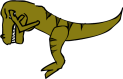
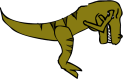
Fixed hit animation

diff --git a/game/sprites/PlayerSprite.cs b/game/sprites/PlayerSprite.cs
@@ -25,9 +25,17 @@ namespace AbrahmanAdventure.sprites
 
         private Surface standingRightSurface;
 
+        private Surface hitLeftSurface;
+
+        private Surface hitRightSurface;
+
         private Surface crouchedRightSurface;
 
         private Surface crouchedLeftSurface;
+        
+        private Surface crouchedHitRightSurface;
+
+        private Surface crouchedHitLeftSurface;
 
         private Surface attackFrame1RightSurface;
 
@@ -120,6 +128,38 @@ namespace AbrahmanAdventure.sprites
                 crouchedLeftSurface = GetCrouchedRightSurface().CreateFlippedHorizontalSurface();
 
             return crouchedLeftSurface;
+        }
+
+        private Surface GetCrouchedHitRightSurface()
+        {
+            if (crouchedHitRightSurface == null)
+                crouchedHitRightSurface = BuildSpriteSurface("./assets/rendered/abrahman/crouchedHit.png");
+
+            return crouchedHitRightSurface;
+        }
+
+        private Surface GetCrouchedHitLeftSurface()
+        {
+            if (crouchedHitLeftSurface == null)
+                crouchedHitLeftSurface = GetCrouchedHitRightSurface().CreateFlippedHorizontalSurface();
+
+            return crouchedHitLeftSurface;
+        }
+
+        private Surface GetHitRightSurface()
+        {
+            if (hitRightSurface == null)
+                hitRightSurface = BuildSpriteSurface("./assets/rendered/abrahman/hit.png");
+
+            return hitRightSurface;
+        }
+
+        private Surface GetHitLeftSurface()
+        {
+            if (hitLeftSurface == null)
+                hitLeftSurface = GetHitRightSurface().CreateFlippedHorizontalSurface();
+
+            return hitLeftSurface;
         }
 
         private Surface GetStandingRightSurface()
@@ -297,7 +337,7 @@ namespace AbrahmanAdventure.sprites
 
         protected override double BuildHitTime()
         {
-            return 64;
+            return 32;
         }
 
         public override Surface GetCurrentSurface(out double xOffset, out double yOffset)
@@ -306,6 +346,8 @@ namespace AbrahmanAdventure.sprites
             yOffset = 0;
             //If currently attacking
             int attackCycleDivision = AttackingCycle.GetCycleDivision(8);
+
+
             if (AttackingCycle.IsFired)
             {
                 if (IsCrouch)
@@ -403,14 +445,32 @@ namespace AbrahmanAdventure.sprites
 
             if (IsCrouch)
             {
-                if (IsTryingToWalkRight)
-                    return GetCrouchedRightSurface();
+                if (HitCycle.IsFired)
+                {
+                    if (IsTryingToWalkRight)
+                        return GetCrouchedHitRightSurface();
+                    else
+                        return GetCrouchedHitLeftSurface();
+                }
                 else
-                    return GetCrouchedLeftSurface();
+                {
+                    if (IsTryingToWalkRight)
+                        return GetCrouchedRightSurface();
+                    else
+                        return GetCrouchedLeftSurface();
+                }
             }
 
             if (CurrentJumpAcceleration != 0)
             {
+                if (HitCycle.IsFired)
+                {
+                    if (IsTryingToWalkRight)
+                        return GetHitRightSurface();
+                    else
+                        return GetHitLeftSurface();
+                }
+
                 if (IsTryingToWalkRight)
                     return GetWalking1RightSurface();
                 else
@@ -422,6 +482,14 @@ namespace AbrahmanAdventure.sprites
 
                 if (cycleDivision == 1)
                 {
+                    if (HitCycle.IsFired)
+                    {
+                        if (IsTryingToWalkRight)
+                            return GetHitRightSurface();
+                        else
+                            return GetHitLeftSurface();
+                    }
+
                     if (IsTryingToWalkRight)
                         return GetWalking1RightSurface();
                     else
@@ -429,6 +497,14 @@ namespace AbrahmanAdventure.sprites
                 }
                 else if (cycleDivision == 3)
                 {
+                    if (HitCycle.IsFired)
+                    {
+                        if (IsTryingToWalkRight)
+                            return GetHitRightSurface();
+                        else
+                            return GetHitLeftSurface();
+                    }
+
                     if (IsTryingToWalkRight)
                         return GetWalking2RightSurface();
                     else

diff --git a/game/sprites/JewSprite.cs b/game/sprites/JewSprite.cs
@@ -194,14 +194,8 @@ namespace AbrahmanAdventure.sprites
                 xOffset = -0.1;
             yOffset = 0;
 
-            if (HitCycle.IsFired)
-            {
-                if (IsTryingToWalkRight)
-                    return GetHitRightSurface();
-                else
-                    return GetHitLeftSurface();
-            }
-            else if (CurrentJumpAcceleration != 0)
+
+            if (CurrentJumpAcceleration != 0)
             {
                 if (IsTryingToWalkRight)
                     return GetWalking1RightSurface();
@@ -214,6 +208,14 @@ namespace AbrahmanAdventure.sprites
 
                 if (cycleDivision == 1)
                 {
+                    if (HitCycle.IsFired)
+                    {
+                        if (IsTryingToWalkRight)
+                            return GetHitRightSurface();
+                        else
+                            return GetHitLeftSurface();
+                    }
+
                     if (IsTryingToWalkRight)
                         return GetWalking1RightSurface();
                     else
@@ -221,6 +223,14 @@ namespace AbrahmanAdventure.sprites
                 }
                 else if (cycleDivision == 3)
                 {
+                    if (HitCycle.IsFired)
+                    {
+                        if (IsTryingToWalkRight)
+                            return GetHitRightSurface();
+                        else
+                            return GetHitLeftSurface();
+                    }
+
                     if (IsTryingToWalkRight)
                         return GetWalking2RightSurface();
                     else

diff --git a/game/sprites/RaptorSprite.cs b/game/sprites/RaptorSprite.cs
@@ -191,19 +191,21 @@ namespace AbrahmanAdventure.sprites
             xOffset = 0;
             yOffset = 0;
 
-            if (HitCycle.IsFired)
+            
+            if (CurrentJumpAcceleration != 0)
             {
+                if (HitCycle.IsFired)
+                {
+                    if (IsTryingToWalkRight)
+                        return GetHitRightSurface();
+                    else
+                        return GetHitLeftSurface();
+                }
+
                 if (IsTryingToWalkRight)
-                    return GetHitRightSurface();
+                    return GetStandingRightSurface();
                 else
-                    return GetHitLeftSurface();
-            }
-            else if (CurrentJumpAcceleration != 0)
-            {
-                if (IsTryingToWalkRight)
-                    return GetWalking1RightSurface();
-                else
-                    return GetWalking1LeftSurface();
+                    return GetStandingLeftSurface();
             }
             else if (CurrentWalkingSpeed != 0)
             {
@@ -225,6 +227,14 @@ namespace AbrahmanAdventure.sprites
                 }
                 else
                 {
+                    if (HitCycle.IsFired)
+                    {
+                        if (IsTryingToWalkRight)
+                            return GetHitRightSurface();
+                        else
+                            return GetHitLeftSurface();
+                    }
+
                     if (IsTryingToWalkRight)
                         return GetStandingRightSurface();
                     else

diff --git a/game/monsterAi/MonsterAi.cs b/game/monsterAi/MonsterAi.cs
@@ -39,7 +39,7 @@ namespace AbrahmanAdventure.ai
 
             bool isFleeMode = player.YPosition < monster.YPosition && (Math.Abs(monster.XPosition - player.XPosition) < player.Width / 2.0);
 
-            if (Math.Abs(monster.XPosition - player.XPosition) < 0.75)
+            if (Math.Abs(monster.XPosition - player.XPosition) < (0.75 * monster.Width))
             {
                 monster.IsTryingToWalk = false;//Too close, don't chase nor flee
             }

diff --git a/game/physics/SpriteCollisionManager.cs b/game/physics/SpriteCollisionManager.cs
@@ -48,6 +48,13 @@ namespace AbrahmanAdventure.physics
                                 }
                             }
                         }
+                        else
+                        {
+                            if (!sprite.HitCycle.IsFired)
+                            {
+                                sprite.HitCycle.Fire();
+                            }
+                        }
                     }
                 }
             }

diff --git a/game/sprites/AbstractSprite.cs b/game/sprites/AbstractSprite.cs
@@ -321,7 +321,13 @@ namespace AbrahmanAdventure.sprites
 
         public double TopBound
         {
-            get { return yPosition - height; }
+            get
+            {
+                if (isCrouch)
+                    return yPosition - (height / 2.0);
+                else
+                    return yPosition - height;
+            }
         }
 
         public double MaximumWalkingHeight
